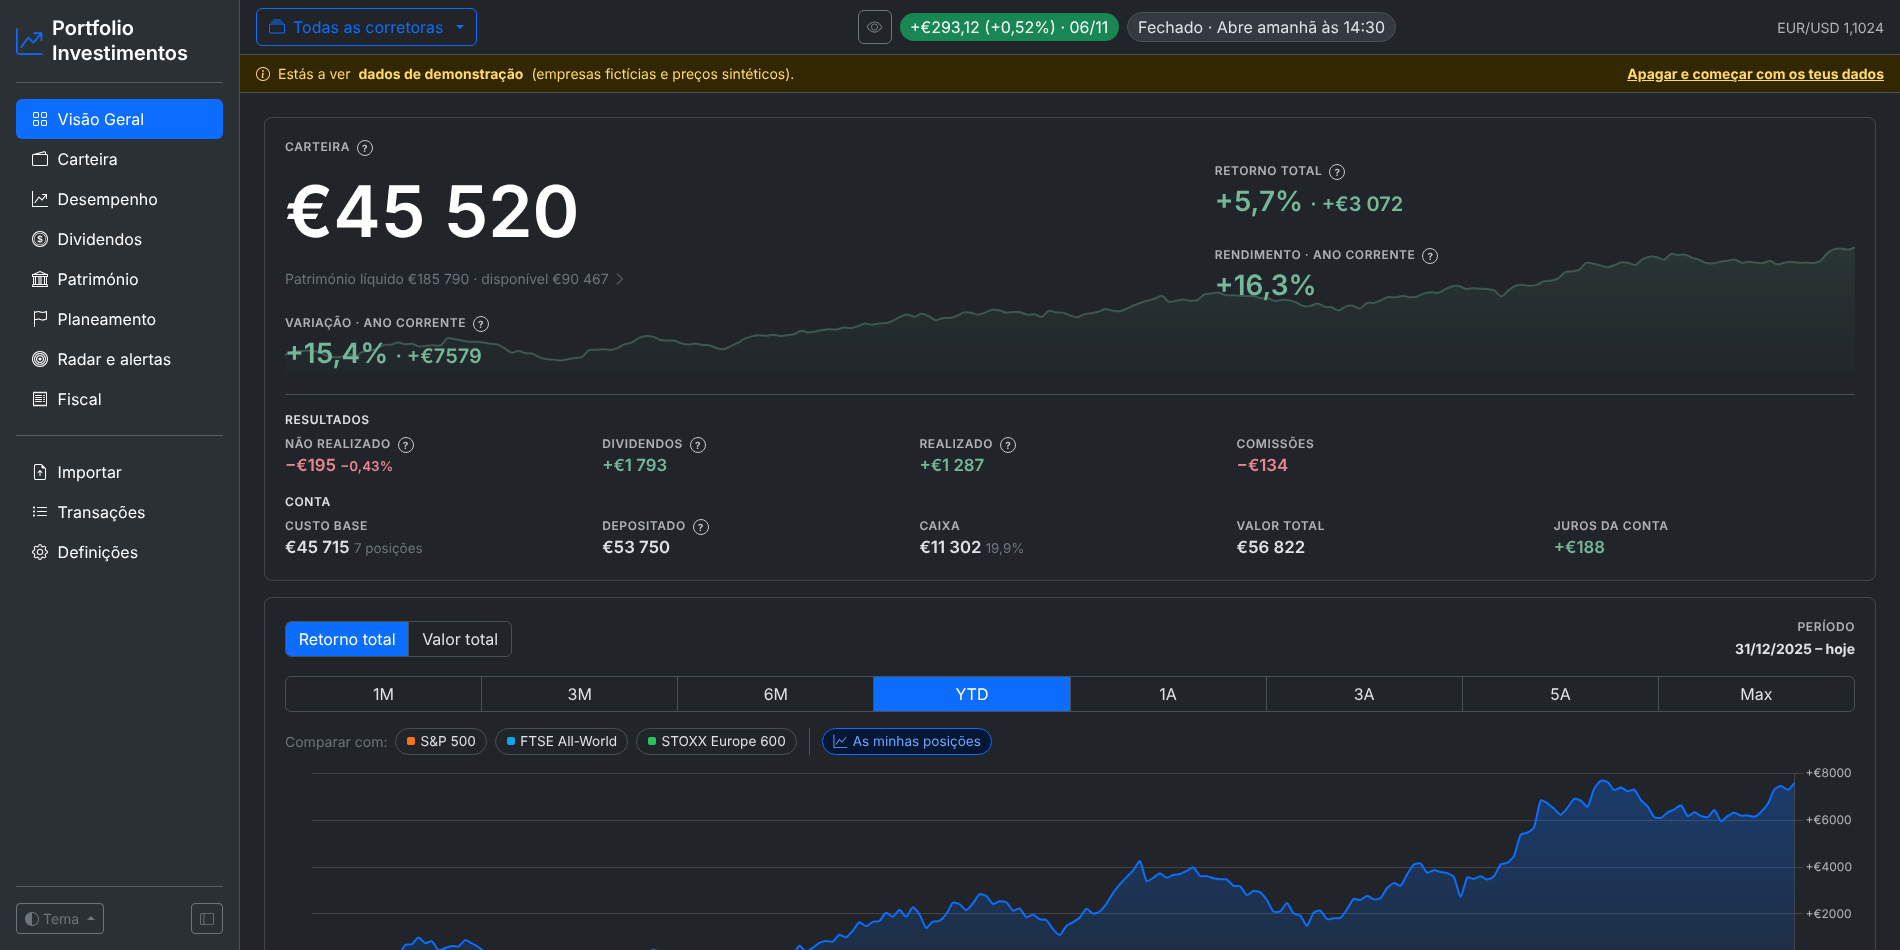
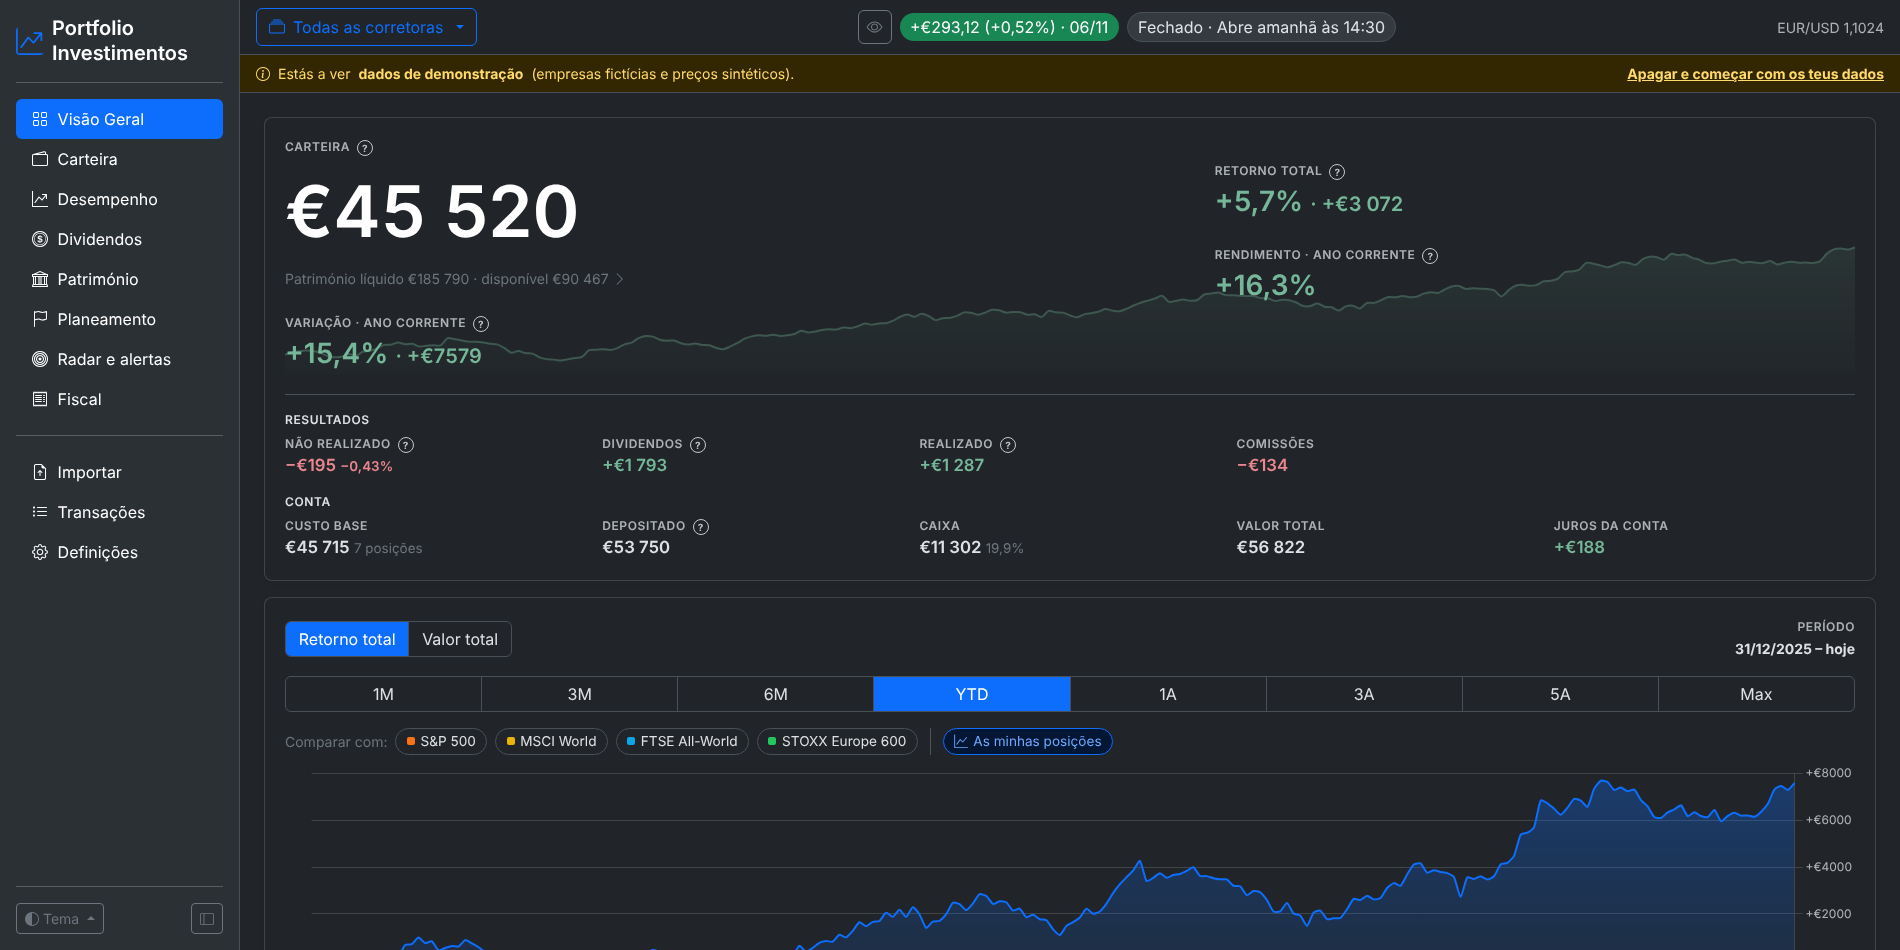
Visão Geral: índices sem cotações desativados, cache sincronizada com a consola e MSCI World no gráfico
Ao selecionar o FTSE All-World ou o STOXX Europe 600 no gráfico da Visão
Geral não aparecia nenhuma linha. Havia duas causas.

1. Os índices novos são criados quando a aplicação arranca
   (ensure_benchmarks), mas só têm cotações depois de uma atualização. O
   Portfolio.performance salta os índices sem preço no início do período, e
   o botão ficava ativo sem mostrar nada.
   - Os botões dos índices sem cotações no período ficam desativados, com a
     explicação «Sem cotações neste período: atualiza as cotações…».
   - O servidor faz isto para o período inicial (bench_ready); ao mudar de
     período, o JS (syncBench) faz o mesmo com os índices que vêm no
     resultado.

2. A cache das carteiras e das cotações da aplicação web só era esquecida
   por escritas feitas no mesmo processo. Uma atualização feita noutro
   processo (atualizar-cotacoes.sh, por exemplo na consola do PythonAnywhere)
   não era vista até ao dia seguinte ou a um reload, e os índices continuavam
   sem cotações na aplicação.
   - Nova função _sync_external em services/data.py: uma vez por pedido, lê o
     last_refresh que cada atualização grava no fim; se mudou desde a última
     vez, esquece a cache. É chamada no load_portfolio, no _market_data e no
     open_position_counts.

Também, a pedido, o MSCI World (URTH) volta a estar entre os índices de
comparação do gráfico: S&P 500, MSCI World, FTSE All-World e STOXX Europe 600.

Testes: uma atualização gravada por outro processo faz recalcular a
[…]

Changed region(s): [[0.2795, 0.7632, 0.59, 0.7937]]

diff --git a/portfolio_investimentos/templates/pages/index.html b/portfolio_investimentos/templates/pages/index.html
@@ -1,4 +1,5 @@
 {% extends "base.html" %}
+{% set NO_QUOTES = "Sem cotações neste período: atualiza as cotações (Definições → Atualizar cotações, ou atualizar-cotacoes.sh)" %}
 {% block content %}{% autoescape true %}
 {% from "macros.html" import help, logo, signed, empty %}
 {% import "pages/_insights.html" as ins %}
@@ -71,7 +72,7 @@
       </div>
       <div class="d-flex align-items-center gap-2 flex-wrap small mb-2">
         <span class="text-secondary">Comparar com:</span>
-        {% for b in benchmarks %}<button class="pm-chip bench" data-t="{{ b.ticker }}" style="--chip: {{ b.color }}"><span class="sw" style="background: {{ b.color }}"></span>{{ b.name }}</button>{% endfor %}
+        {% for b in benchmarks %}<button class="pm-chip bench" data-t="{{ b.ticker }}" style="--chip: {{ b.color }}" {% if b.ticker not in bench_ready %}disabled title="{{ NO_QUOTES }}"{% endif %}><span class="sw" style="background: {{ b.color }}"></span>{{ b.name }}</button>{% endfor %}
         <span class="vr mx-1"></span>
         <button class="pm-chip" id="posToggle" title="Mostra o contributo das posições com maior ganho ou perda no período"><i class="bi bi-graph-up"></i> As minhas posições</button>
       </div>
@@ -165,6 +166,16 @@
   const loadPositions = async () => { pos = showPos ? await pm.call("positions", { period }) : null; };
 
   document.addEventListener("DOMContentLoaded", () => {
+    // índices sem cotações no período: o botão fica desativado, com a explicação (em vez de não aparecer nada)
+    const syncBench = () => {
+      const ready = new Set((perf && perf.benchmarks || []).map((b) => b.ticker));
+      document.querySelectorAll(".pm-chip.bench").forEach((b) => {
+        const ok = ready.has(b.dataset.t);
+        b.disabled = !ok;
+        if (ok) b.removeAttribute("title"); else b.title = {{ NO_QUOTES|tojson }};
+        if (!ok) { b.classList.remove("active"); active.delete(b.dataset.t); }
+      });
+    };
     // widget Carteira: o gráfico de fundo, a variação e o rendimento seguem o período do gráfico
     const drawHero = () => {
       if (!perf) return;
@@ -196,6 +207,7 @@
       document.querySelectorAll("#periods button").forEach((x) => x.classList.toggle("active", x === b));
       period = b.dataset.p;
       perf = await pm.call("performance", { period, benchmarks: BENCH });
+      syncBench();
       drawHero();
       await loadPositions();
       draw();

diff --git a/portfolio_investimentos/static/css/pm.css b/portfolio_investimentos/static/css/pm.css
@@ -252,3 +252,4 @@ body.pm-widget-drag-on .tooltip { display: none; }
 
 /* logótipos (e iniciais) dos ativos: maiores e com cantos bem arredondados, como nas apps das corretoras */
 span.pm-logo { width: 36px; height: 36px; flex: 0 0 36px; border-radius: 10px; font-size: .7rem; }
+.pm-chip:disabled { opacity: .45; cursor: not-allowed; }

diff --git a/tests/test_app.py b/tests/test_app.py
@@ -2440,13 +2440,49 @@ def test_overview_carteira_widget_follows_period(app, client):
     assert abs(m3["summary"]["gain"] - round(perf["return_eur"], 2)) < 0.01
 
 
-def test_overview_compares_only_three_indices(app, client):
+def test_overview_compares_only_four_indices(app, client):
     token = csrf(client)
     assert post(client, "load_demo", token).status_code == 200
     html = client.get("/").get_data(as_text=True)
     chips = re.findall(r'class="pm-chip bench" data-t="([^"]+)"', html)
-    assert chips == ["^GSPC", "FTSE-AW", "^STOXX"]
+    assert chips == ["^GSPC", "URTH", "FTSE-AW", "^STOXX"]
     assert "STOXX Europe 600" in html and "FTSE All-World" in html and 'data-t="^NDX"' not in html
-    m = post(client, "performance", token, period="1A", benchmarks='["^GSPC", "FTSE-AW", "^STOXX"]').get_json()["message"]
-    assert [b["ticker"] for b in m["benchmarks"]] == ["^GSPC", "FTSE-AW", "^STOXX"] and all(m["benchmarks"][i]["twr"] for i in range(3))
+    m = post(client, "performance", token, period="1A", benchmarks='["^GSPC", "URTH", "FTSE-AW", "^STOXX"]').get_json()["message"]
+    assert [b["ticker"] for b in m["benchmarks"]] == ["^GSPC", "URTH", "FTSE-AW", "^STOXX"]
+    assert all(b["twr"] for b in m["benchmarks"])
     assert "const shownPos = new Set();" in html  # as linhas das posições começam por selecionar
+
+
+def test_cache_follows_refresh_from_another_process(app, client):
+    from portfolio_investimentos.services import data
+    assert post(client, "load_demo", csrf(client)).status_code == 200
+    client.get("/")  # carteira em cache
+    calls = []
+    orig = data._compute_portfolio
+    data._compute_portfolio = lambda b: calls.append(b) or orig(b)
+    try:
+        client.get("/")
+        assert calls == []  # da cache
+        # outro processo (atualizar-cotacoes.sh) atualiza as cotações e grava last_refresh diretamente na base
+        import sqlite3
+        con = sqlite3.connect(app.config["DB_PATH"])
+        con.execute("INSERT OR REPLACE INTO setting (key, value) VALUES ('last_refresh', '2099-01-01T00:00:00')")
+        con.commit()
+        con.close()
+        client.get("/")
+        assert calls  # recalculada com os dados novos
+    finally:
+        data._compute_portfolio = orig
+
+
+def test_overview_index_without_quotes_is_disabled(app, client):
+    from portfolio_investimentos.models import Price
+    token = csrf(client)
+    assert post(client, "load_demo", token).status_code == 200
+    with app.app_context():
+        Price.query.filter_by(instrument="^STOXX").delete()
+        db.session.commit()
+    html = client.get("/").get_data(as_text=True)
+    stoxx = re.search(r'<button class="pm-chip bench" data-t="\^STOXX"[^>]*>', html).group(0)
+    gspc = re.search(r'<button class="pm-chip bench" data-t="\^GSPC"[^>]*>', html).group(0)
+    assert "disabled" in stoxx and "Sem cotações" in stoxx and "disabled" not in gspc

diff --git a/portfolio_investimentos/services/data.py b/portfolio_investimentos/services/data.py
@@ -39,8 +39,33 @@ def _series(sql):
     return out
 
 
+_seen = {"refresh": None}  # o último «last_refresh» que este processo viu
+
+
+def _sync_external():
+    """Esquece a cache quando outro processo atualizou as cotações (ex.: atualizar-cotacoes.sh na consola,
+    enquanto a aplicação web corre noutro processo): as escritas desse processo não passam pelos eventos daqui,
+    mas o fim de cada atualização grava `last_refresh`. Uma consulta por pedido."""
+    try:
+        if g.get("pm_synced"):
+            return
+        g.pm_synced = True
+    except RuntimeError:  # fora de um contexto da aplicação
+        return
+    try:
+        stamp = db.session.query(Setting.value).filter_by(key="last_refresh").scalar()
+    except Exception:
+        return
+    if _seen["refresh"] is None:
+        _seen["refresh"] = stamp or ""
+    elif (stamp or "") != _seen["refresh"]:
+        _seen["refresh"] = stamp or ""
+        invalidate()
+
+
 def _market_data():
     """Todas as cotações e câmbios, partilhados por todas as corretoras até os dados mudarem."""
+    _sync_external()
     rev = _state["rev"]
     with _lock:
         shared = _cache.get(("market", rev))
@@ -207,6 +232,7 @@ def load_portfolio(broker=None):
     cache = g.setdefault("pm_portfolios", {})
     if broker in cache:
         return cache[broker]
+    _sync_external()
     key = (broker, _state["rev"], date.today())
     with _lock:
         p = _cache.get(key)
@@ -248,6 +274,7 @@ def brokers():
 
 def open_position_counts():
     """corretora → nº de posições abertas (cache até os dados mudarem)."""
+    _sync_external()
     key = ("open_counts", _state["rev"])
     with _lock:
         hit = _cache.get(key)

diff --git a/portfolio_investimentos/views.py b/portfolio_investimentos/views.py
@@ -131,6 +131,7 @@ def overview():
                       ("Daqui a duas semanas", [e for e in events if week < e.date <= two]),
                       ("Mais tarde", [e for e in events if e.date > two][:10])],
         instruments=instruments, fired=check_alerts(p), portfolio_fired=portfolio_alerts.check(), perf=ctx.js_json(perf_ytd), hero=(perf_ytd or {}).get("summary"),
+        bench_ready={b["ticker"] for b in (perf_ytd or {}).get("benchmarks", [])},
         benchmarks=[b for t in OVERVIEW_TICKERS for b in p.benchmarks if b.ticker == t], scores=insights.scores(p, c["broker"], c["broker_doc"].broker_name if c["broker_doc"] else None),
         networth=networth.summary(data.load_portfolio(None)) if networth.assets() else None,
         networth_late=len(networth.reminder()),

diff --git a/portfolio_investimentos/services/market.py b/portfolio_investimentos/services/market.py
@@ -74,6 +74,7 @@ DEFAULT_BENCHMARKS = [
 # quem tenha esse ETF na carteira; o STOXX Europe 600 é o índice (^STOXX)
 OVERVIEW_BENCHMARKS = [
     ("^GSPC", "S&P 500", "#f97316", "USD"),
+    ("URTH", "MSCI World", "#eab308", "USD"),
     ("FTSE-AW", "FTSE All-World", "#0ea5e9", "EUR"),
     ("^STOXX", "STOXX Europe 600", "#22c55e", "EUR"),
 ]

diff --git a/README.md b/README.md
@@ -185,7 +185,7 @@ O tema escolhe-se no botão **Tema**, no fundo da barra lateral: Claro, Escuro o
 
 | Página | O que mostra |
 | --- | --- |
-| **Visão Geral** | Valor da carteira e retorno total; a variação (sem depósitos) e o rendimento (TWR) no período escolhido no gráfico de evolução, que também muda o gráfico de fundo do cartão; e no mesmo cartão os resultados (não realizado, dividendos, realizado, comissões) e a conta (custo base, depositado, caixa, valor total, juros). **Perfil de investidor**: Investor Score e Portfolio Score (0-100, últimos 3 anos) com seis perfis (Passive Index, Concentrated Picker, Diversified Active, Income Focus, Growth/Tech, Active Trader), o perfil sugerido pela carteira e a fórmula de cada métrica no «?»; um perfil por corretora e outro para todas as corretoras, com um aviso quando o perfil escolhido não é o que a carteira sugere. Gráfico de evolução (retorno ou valor, 1M a Máx; abre no ano corrente) com comparação com o S&P 500, o FTSE All-World e o STOXX Europe 600 e **as minhas posições** (as 5 com maior ganho ou perda e as restantes somadas; na legenda, por selecionar), a toda a largura. Principais movers do dia (até 8), com o nome, o preço e um gráfico do último ano que ocupa a largura da linha, verde acima do teu preço médio de aquisição (tracejado) e vermelho abaixo, com a data, o preço e a diferença para o preço médio ao passar o rato. Próximos eventos dos próximos 90 dias (resultados, com o intervalo quando ainda é estimado, ex-dividendo e pagamentos). **Peso vs retorno** (mapa e bolhas) e **alocação** por setor, geografia, classe e corretora. |
+| **Visão Geral** | Valor da carteira e retorno total; a variação (sem depósitos) e o rendimento (TWR) no período escolhido no gráfico de evolução, que também muda o gráfico de fundo do cartão; e no mesmo cartão os resultados (não realizado, dividendos, realizado, comissões) e a conta (custo base, depositado, caixa, valor total, juros). **Perfil de investidor**: Investor Score e Portfolio Score (0-100, últimos 3 anos) com seis perfis (Passive Index, Concentrated Picker, Diversified Active, Income Focus, Growth/Tech, Active Trader), o perfil sugerido pela carteira e a fórmula de cada métrica no «?»; um perfil por corretora e outro para todas as corretoras, com um aviso quando o perfil escolhido não é o que a carteira sugere. Gráfico de evolução (retorno ou valor, 1M a Máx; abre no ano corrente) com comparação com o S&P 500, o MSCI World, o FTSE All-World e o STOXX Europe 600 e **as minhas posições** (as 5 com maior ganho ou perda e as restantes somadas; na legenda, por selecionar), a toda a largura. Principais movers do dia (até 8), com o nome, o preço e um gráfico do último ano que ocupa a largura da linha, verde acima do teu preço médio de aquisição (tracejado) e vermelho abaixo, com a data, o preço e a diferença para o preço médio ao passar o rato. Próximos eventos dos próximos 90 dias (resultados, com o intervalo quando ainda é estimado, ex-dividendo e pagamentos). **Peso vs retorno** (mapa e bolhas) e **alocação** por setor, geografia, classe e corretora. |
 | **Carteira** | Posições abertas/fechadas, carteira vs mercado no dia (até 5 índices à escolha: MSCI World, FTSE All-World, S&P 500, Dow Jones, Nasdaq 100, Russell 2000, Bitcoin, FTSE 100, CAC 40, DAX, STOXX Europe 600, Euro STOXX 50, AEX e Euronext 100) com alertas da variação do dia de toda a carteira ou de uma corretora (1, 2, 3 ou 5%, a subir, a descer ou os dois; no máximo um aviso por dia e por sentido, sem contar depósitos e levantamentos), filtros por setor, pesquisa, tabela ordenável (preço, 1D, preço médio, investido, valor, não realizado, dividendos, efeito cambial, comissões, ROI, peso) e alocação por ativo, setor e moeda. «As crises»: quanto cairia a carteira de hoje se 2008, 2011, 2020 ou 2022 se repetissem (beta de cada posição face ao S&P 500) e quanto tempo levava a recuperar. «Os custos»: comissões, custo dos ETF (TER, indicado por ti) e retenções na fonte acima dos 15% da convenção, por ano e daqui a 20 anos. «O valor de cada ação»: por ordem de popularidade, DCF, Número de Graham, fórmula de crescimento de Graham (com o rendimento das obrigações AAA configurável) e modelo de Gordon, e em «Mais métodos» Owner Earnings (Buffett), Earnings Power Value (Greenwald), Bazin e o PEG de Peter Lynch, sempre em intervalo e com a fórmula e os números no «?», comparados com o preço, e o crescimento que o preço de hoje já assume; dados fundamentais do Yahoo (uma vez por semana, na atualização de cotações; se o pedido principal falhar, a partir das demonstrações financeiras, também da cotação principal pelo ISIN, convertidos para a moeda da cotação), que podes corrigir. «Carteira cerne»: três ETF com pesos alvo (por omissão ERNX 45% · FWIA 30% · XEON 25%); quando o ETF de crescimento cai face ao máximo, a mistura alvo passa ao escalão seguinte (40/35/25, 35/40/25, 30/50/20, 25/60/15, 20/70/10), a cada 10% de queda (configurável em Definições), e mantém-se quando ele recupera até voltares à base; com os pesos atuais, o desvio, as ordens em € e unidades (ou só a distribuição do dinheiro novo, sem vender), o retorno esperado, a volatilidade e o pior ano típico de cada escalão, e uma faixa no topo quando se chega a um escalão novo. |
 | **Desempenho** | Retorno total e IRR, TWR e CAGR vs índice, melhor/pior ano e mês, sequência atual; TWR anual e acumulado; drawdown; mapa de retornos mensais; mérito vs mercado (captura em alta/baixa, beta, % de meses acima do mercado); risco (Sharpe, Sortino, Calmar, volatilidade, max drawdown); alfa de Jensen e distribuição mensal ordenada. |
 | **Dividendos** | Recebido líquido/bruto e retenção na fonte, maior pagador, meses com dividendos, rendimento anualizado, crescimento anual. **Projeção** do ano e dos próximos 12 meses com os dividendos recebidos e, para posições recentes, os dividendos por ação do Yahoo, com a origem de cada valor. Dividendos por ano, decomposição do crescimento, **mapa mensal com a linha do próximo ano**, **datas ex-dividendo** (recebido, a receber, sem direito por ter comprado depois, previsto), yield on cost e histórico. |

diff --git a/CHANGELOG.md b/CHANGELOG.md
@@ -4,6 +4,9 @@ O que mudou em cada commit, do mais recente para o mais antigo (gerado a partir 
 
 ## 2026-11-08
 
+- **Visão Geral: índices sem cotações deixam de ficar «mudos»; a aplicação web vê as atualizações feitas na consola; MSCI World no gráfico**  
+  Os índices novos (FTSE All-World, STOXX Europe 600) passam a existir quando a aplicação arranca, mas só têm cotações depois de uma atualização; até lá, ao selecioná-los não aparecia nada. Agora o botão de um índice sem cotações no período fica desativado, com a explicação. E a cache da aplicação web passa a ser esquecida quando outro processo atualiza as cotações (ex.: `atualizar-cotacoes.sh` no PythonAnywhere): antes, a aplicação continuava com os dados antigos até ao dia seguinte ou a um reload. O MSCI World volta a estar entre os índices de comparação do gráfico (S&P 500, MSCI World, FTSE All-World e STOXX Europe 600).
+
 - **Visão Geral: comparar com S&P 500, FTSE All-World e STOXX Europe 600; posições por selecionar**  
   O gráfico «Retorno total / Valor total» passa a comparar só com o S&P 500, o FTSE All-World (cotações do ETF VWCE.DE, com o ticker próprio FTSE-AW para não se confundir com quem o tem na carteira) e o STOXX Europe 600 (^STOXX); os dois novos ficam também na lista de índices da «Carteira vs mercado» e recebem cotações na atualização. Por baixo do gráfico só a Carteira vem selecionada: as linhas das posições ficam na legenda, por selecionar (um clique mostra cada uma).
 
